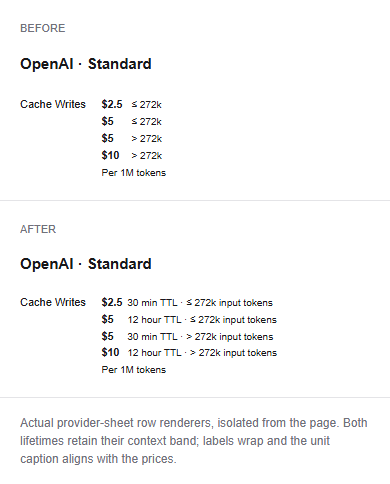
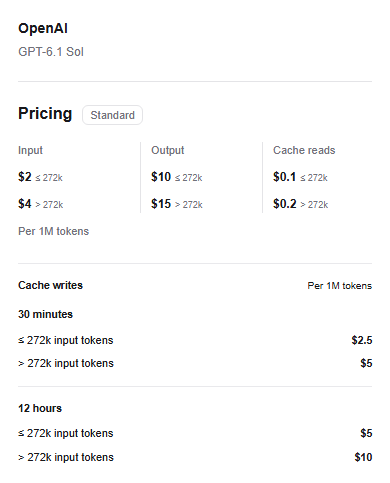
fix(web): group cache prices by lifetime

diff --git a/apps/web/src/components/(data)/model/pricing/CacheWritePricing.tsx b/apps/web/src/components/(data)/model/pricing/CacheWritePricing.tsx
@@ -1,0 +1,83 @@
+import {
+	compareTokenTiers,
+	fmtUSD,
+	tokenRangeFromConditions,
+	type TokenTier,
+} from "./pricingHelpers";
+
+type CacheWriteGroup = {
+	meter: string;
+	duration: number;
+	unit: "minute" | "hour";
+	tiers: TokenTier[];
+};
+
+export function groupCacheWriteTiers(tiers: TokenTier[]): CacheWriteGroup[] | null {
+	if (!tiers.length) return null;
+	const groups = new Map<string, CacheWriteGroup>();
+	for (const tier of tiers) {
+		const match = tier.meter?.match(/^cached_write_text_tokens_(5m|1h|30m|12h)$/);
+		if (!match || !tier.meter) return null;
+		const duration = Number.parseInt(match[1], 10);
+		const unit = match[1].endsWith("h") ? "hour" : "minute";
+		const group: CacheWriteGroup = groups.get(tier.meter) ?? { meter: tier.meter, duration, unit, tiers: [] };
+		group.tiers.push(tier);
+		groups.set(tier.meter, group);
+	}
+	return [...groups.values()]
+		.sort((a, b) => a.duration * (a.unit === "hour" ? 60 : 1) - b.duration * (b.unit === "hour" ? 60 : 1))
+		.map((group) => ({ ...group, tiers: [...group.tiers].sort(compareTokenTiers) }));
+}
+
+export function CacheWritePricing({
+	label,
+	groups,
+	unitLabel,
+	valueClassName,
+	freeLabel,
+	locale,
+	localizeLabel,
+}: {
+	label: string;
+	groups: CacheWriteGroup[];
+	unitLabel?: string;
+	valueClassName?: string;
+	freeLabel: string;
+	locale: string;
+	localizeLabel: (value: string | null | undefined) => string;
+}) {
+	return (
+		<section className="@container space-y-4 border-t border-zinc-200/80 pt-4 dark:border-zinc-800" aria-label={localizeLabel(label)}>
+			<div className="flex items-baseline justify-between gap-3">
+				<h4 className="text-xs font-semibold text-foreground">{localizeLabel(label)}</h4>
+				<span className="text-[10px] text-muted-foreground">{localizeLabel(unitLabel)}</span>
+			</div>
+			<div className="grid grid-cols-1 gap-4 @min-[420px]:grid-cols-2 @min-[420px]:gap-5">
+				{groups.map((group, index) => (
+					<div key={group.meter} className={index > 0 ? "min-w-0 border-t border-zinc-200/80 pt-4 @min-[420px]:border-l @min-[420px]:border-t-0 @min-[420px]:pl-5 @min-[420px]:pt-0 dark:border-zinc-800" : "min-w-0"}>
+						<h5 className="mb-3 text-xs font-semibold text-foreground">
+							{new Intl.NumberFormat(locale, { style: "unit", unit: group.unit, unitDisplay: "long" }).format(group.duration)}
+						</h5>
+						<dl className="space-y-2">
+							{group.tiers.map((tier, tierIndex) => {
+								const range = tokenRangeFromConditions(tier.conditions);
+								const hasComparison = tier.basePer1M != null && Number.isFinite(tier.basePer1M) && Math.abs(tier.basePer1M - tier.per1M) > 1e-9;
+								return (
+									<div key={tier.ruleId ?? tierIndex} className="flex items-baseline justify-between gap-3">
+										<dt className={range ? "min-w-0 text-[11px] text-muted-foreground" : "sr-only"}>
+											{localizeLabel(range ? `${range} input tokens` : "All usage")}
+										</dt>
+										<dd className="flex shrink-0 flex-wrap justify-end gap-x-1.5 text-xs tabular-nums">
+											{hasComparison ? <s className="text-muted-foreground">{fmtUSD(tier.basePer1M!)}</s> : null}
+											<span className={`font-semibold ${valueClassName ?? "text-foreground"}`}>{tier.per1M === 0 ? freeLabel : fmtUSD(tier.per1M)}</span>
+										</dd>
+									</div>
+								);
+							})}
+						</dl>
+					</div>
+				))}
+			</div>
+		</section>
+	);
+}

diff --git a/apps/web/src/components/(data)/model/pricing/CacheWritePricing.test.tsx b/apps/web/src/components/(data)/model/pricing/CacheWritePricing.test.tsx
@@ -1,0 +1,64 @@
+import { renderToStaticMarkup } from "react-dom/server";
+import { load } from "cheerio";
+import { CacheWritePricing, groupCacheWriteTiers } from "./CacheWritePricing";
+import type { TokenTier } from "./pricingHelpers";
+
+const tiers: TokenTier[] = [
+	["gt", "12h", 10], ["lte", "30m", 2.5],
+	["gt", "30m", 5], ["lte", "12h", 5],
+].map(([op, ttl, price], index) => ({
+	meter: `cached_write_text_tokens_${ttl}`,
+	conditions: [{ path: "input_tokens", op: String(op), value: 272000 }],
+	per1M: Number(price), price: Number(price), label: "unused combined label",
+	ruleId: `cache-${index}`, isCurrent: true,
+}));
+
+function renderPricing(rows = tiers, locale = "en-GB") {
+	return load(renderToStaticMarkup(
+		<CacheWritePricing label="Cache Writes" groups={groupCacheWriteTiers(rows)!}
+			unitLabel="Per 1M tokens" freeLabel="Free" locale={locale}
+			localizeLabel={(value) => value ?? ""} />,
+	));
+}
+
+test("renders each lifetime once with its own short and long context prices", () => {
+	const $ = renderPricing();
+	expect($("h5").map((_, el) => $(el).text()).get()).toEqual(["30 minutes", "12 hours"]);
+	expect($("dl").map((_, el) => $(el).find("dd").map((__, row) => $(row).text()).get()).get()).toEqual(["$2.5", "$5", "$5", "$10"]);
+	expect($("dt").map((_, el) => $(el).text()).get()).toEqual([
+		"≤ 272k input tokens", "> 272k input tokens", "≤ 272k input tokens", "> 272k input tokens",
+	]);
+	expect($.text().match(/Per 1M tokens/g)).toHaveLength(1);
+	expect($.text()).not.toContain("TTL");
+});
+
+test("keeps promotional base prices and free prices inside the matching lifetime", () => {
+	const $ = renderPricing(tiers.map((tier): TokenTier => tier.ruleId === "cache-1"
+		? { ...tier, per1M: 0, basePer1M: 2.5, comparisonKind: "discount" }
+		: tier));
+	expect($("dl").first().find("s").text()).toBe("$2.5");
+	expect($("dl").first().find("dd").first().text()).toBe("$2.5Free");
+	expect($("dl").last().find("s")).toHaveLength(0);
+});
+
+test("supports Anthropic lifetimes and incomplete context combinations", () => {
+	const rows = [
+		{ ...tiers[0], meter: "cached_write_text_tokens_1h", conditions: [], per1M: 6 },
+		{ ...tiers[1], meter: "cached_write_text_tokens_5m", conditions: [], per1M: 3.75 },
+	];
+	const $ = renderPricing(rows);
+	expect($("h5").map((_, el) => $(el).text()).get()).toEqual(["5 minutes", "1 hour"]);
+	expect($("dd").map((_, el) => $(el).text()).get()).toEqual(["$3.75", "$6"]);
+	expect(groupCacheWriteTiers([tiers[0]])?.[0].tiers).toHaveLength(1);
+});
+
+test("leaves generic cache writes and other meters on the existing display path", () => {
+	expect(groupCacheWriteTiers([])).toBeNull();
+	expect(groupCacheWriteTiers([{ ...tiers[0], meter: "cached_write_text_tokens" }])).toBeNull();
+	expect(groupCacheWriteTiers([...tiers, { ...tiers[0], meter: "input_text_tokens" }])).toBeNull();
+});
+
+test("formats lifetime headings in the selected locale", () => {
+	const $ = renderPricing(tiers, "fr-FR");
+	expect($("h5").map((_, el) => $(el).text().replace(/\s/g, " ")).get()).toEqual(["30 minutes", "12 heures"]);
+});

diff --git a/apps/web/src/components/(data)/model/pricing/ProviderCard.tsx b/apps/web/src/components/(data)/model/pricing/ProviderCard.tsx
@@ -1,5 +1,6 @@
 "use client";
 import { GroupedInputPrice } from "./GroupedInputPrice";
+import { CacheWritePricing, groupCacheWriteTiers } from "./CacheWritePricing";
 import { localizedWorkspacePolicyReason } from "@/i18n/workspace-policy-messages";
 import { localizedPricingDisplayLabel } from "@/i18n/pricing-display";
 
@@ -797,10 +798,15 @@ function renderSecondaryTierSummary(
 	valueClassName: string | undefined,
 	freeLabel: string,
 	l: (value: string | null | undefined) => string,
+	locale: string,
 ) {
 	const orderedTiers = [...(tiers ?? [])].sort(compareTokenTiers);
 	if (!orderedTiers.length) {
 		return <div className="text-xs font-semibold tabular-nums text-foreground">--</div>;
+	}
+	const cacheWriteGroups = groupCacheWriteTiers(orderedTiers);
+	if (cacheWriteGroups) {
+		return <CacheWritePricing label={label} groups={cacheWriteGroups} unitLabel={unitLabel} valueClassName={valueClassName} freeLabel={freeLabel} locale={locale} localizeLabel={l} />;
 	}
 	const hasAnyComparison = orderedTiers.some(hasTokenTierComparison);
 	const conditions = getTokenTierConditions(orderedTiers);
@@ -2362,13 +2368,13 @@ export default function ProviderCard({
 		label,
 		tiles,
 	}));
-	const tokenMetricGroups = allTokenMetricGroups.map(({ label, tiles }) => ({
-		label,
-		tiles: tiles.slice(0, 3),
-		columns: Math.min(3, tiles.length),
-	}));
+	const tokenMetricGroups = allTokenMetricGroups.map(({ label, tiles }) => {
+		const primaryTiles = tiles.filter((tile) => !tile.key.endsWith("-cache-write")).slice(0, 3);
+		return { label, tiles: primaryTiles, columns: primaryTiles.length };
+	}).filter((group) => group.tiles.length > 0);
+	const primaryTokenKeys = new Set(tokenMetricGroups.flatMap((group) => group.tiles.map((tile) => tile.key)));
 	const additionalTokenMetricTiles = allTokenMetricGroups.flatMap(({ label, tiles }) =>
-		tiles.slice(3).map((tile) => ({ ...tile, groupTitle: label })),
+		tiles.filter((tile) => !primaryTokenKeys.has(tile.key)).map((tile) => ({ ...tile, groupTitle: label })),
 	);
 	const infoScope = providerModelsInScope;
 	const tableInfoScope = tableProviderModelsInScope;
@@ -3015,7 +3021,7 @@ export default function ProviderCard({
 								)}
 							>
 								<div className="text-[11px] text-muted-foreground">
-									{tokenMetricGroups.length > 1
+										{allTokenMetricGroups.length > 1
 										? `${group.label} ${tile.title}`
 										: tile.title}
 								</div>
@@ -3118,7 +3124,7 @@ export default function ProviderCard({
 						{additionalTokenMetricTiles.map((tile) => (
 							<React.Fragment key={tile.key}>
 								{renderSecondaryTierSummary(
-									tokenMetricGroups.length > 1
+									allTokenMetricGroups.length > 1
 										? `${tile.groupTitle} ${tile.title}`
 										: tile.title,
 									tile.tiers,
@@ -3126,6 +3132,7 @@ export default function ProviderCard({
 									selectedPlanPriceClass,
 									tx("Common.ui.chatSettings.free" as never),
 									localizePricingLabel,
+									locale,
 								)}
 							</React.Fragment>
 						))}

diff --git a/.changeset/fix-openai-cache-lifetime-display.md b/.changeset/fix-openai-cache-lifetime-display.md
@@ -2,4 +2,4 @@
 "@phaseo/web": patch
 ---
 
-Show OpenAI cache-write lifetimes alongside context pricing in provider sheets.
+Group cache-write pricing by lifetime, with short and long context prices inside each group, including OpenAI's 30-minute and 12-hour rates.
